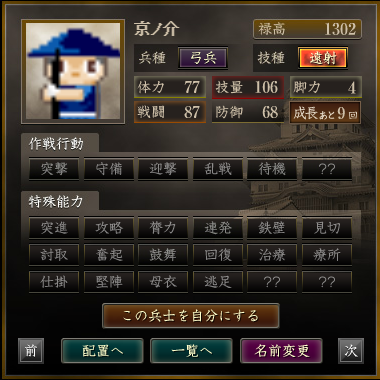
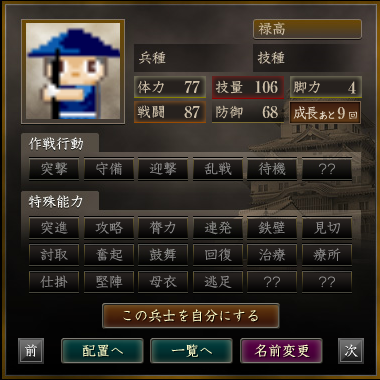
名前・兵種・技種・成長回数が自動で合成されるようにした。

Changed region(s): [[0.7816, 0.0579, 0.9553, 0.2026], [0.4632, 0.1158, 0.6079, 0.2026], [0.3474, 0.0579, 0.4632, 0.1158]]

diff --git a/MyFirstImageComposition/Pages/Index.cshtml.cs b/MyFirstImageComposition/Pages/Index.cshtml.cs
@@ -28,22 +28,64 @@ namespace MyFirstImageComposition.Pages
 
         public void OnGet()
         {
-            string rootPath = _hostEnvironment.WebRootPath;
+            // 兵オブジェクトが持っている情報
+            int nameA = 1;
+            int nameB = 1;
+            string name = "京ノ介";
+            int ch = 1;
+            int ac = 1;
[1 lines of base64/hex data omitted]
+            int mp = 0;
+            int kp = 0;
+            int pw = 0;
+            int df = 0;
+            int s = 4;
 
-            string baseImagePath = Path.Combine(rootPath, @"images\no_title.png");
 
-            using Bitmap newImage = new(baseImagePath);
-            using Graphics g = Graphics.FromImage(newImage);
+            // 元画像
+            string baseImagePath = GetAbsolutePath(@"images\no_title.png");
+            using Bitmap soldierImage = new(baseImagePath);
 
-            string ss = "s1s2s3s4s5s7s8s9s10s11s12s13s14s15s16s17s18s19s20s21s22s33s32s";
+            using (Graphics g = Graphics.FromImage(soldierImage))
+            {
+                // 兵名
+                g.DrawString(name, new Font("MS ゴシック", 11, FontStyle.Bold), Brushes.Moccasin, new Point(133, 21));
 
+                // 兵種
+                string chImagePath = GetAbsolutePath($@"images\characters\ch{ch}.png");
+                using Bitmap chImage = new(chImagePath);
+                g.DrawImage(chImage, 178, 45);
+
+                // 技種
+                string acImagePath = GetAbsolutePath($@"images\actions\ac{ac}.png");
+                using Bitmap acImage = new(acImagePath);
+                g.DrawImage(acImage, 297, 45);
+
+                // 作戦・特殊能力
+                DrawSpecialSkills(g, ss);
+            }
+
+            // 文字列に変換
+            TestImage = ImageToString(soldierImage);
+        }
+
+        private string GetAbsolutePath(string path)
+        {
+            return Path.Combine(_hostEnvironment.WebRootPath, path);
+        }
+
+        // 作戦・特殊能力・向き・作戦を合成
+        private void DrawSpecialSkills(Graphics g, string ss)
+        {
+            // 作戦・特殊能力
             for (int i = 1; i <= 34; i++)
             {
+                // 未割り当て
                 if (i is 6 or 23 or 24 or 30)
                 {
                     continue;
                 }
-
+                // 向き
                 if (i is >= 25 and <= 29)
                 {
                     continue;
@@ -51,13 +93,23 @@ namespace MyFirstImageComposition.Pages
 
                 if (ss.Contains($"s{i}s"))
                 {
-                    string ssImagePath = Path.Combine(rootPath, $@"images\skills\s{i}s.png");
-                    using Bitmap logoImage = new(ssImagePath);
-                    g.DrawImage(logoImage, CalcSSPoint(i));
+                    string ssImagePath = GetAbsolutePath($@"images\skills\s{i}s.png");
+                    using Bitmap ssImage = new(ssImagePath);
+                    g.DrawImage(ssImage, CalcSpecialSkillPoint(i));
                 }
             }
 
-            TestImage = ImageToString(newImage);
+            // 成長
+            for (int i = 90; i <= 99; i++)
+            {
+                if (ss.Contains($"s{i}s"))
+                {
+                    string ssImagePath = GetAbsolutePath($@"images\skills\s{i}s.png");
+                    using Bitmap ssImage = new(ssImagePath);
+                    g.DrawImage(ssImage, 289, 101);
+                    break;
+                }
+            }
         }
 
         private readonly Dictionary<int, (int, int)> Coordinates = new()
@@ -82,7 +134,7 @@ namespace MyFirstImageComposition.Pages
             { 22, (192, 269) },
         };
 
-        public Point CalcSSPoint(int a)
+        public Point CalcSpecialSkillPoint(int a)
         {
 
             if (a is 6 or 23 or 24 or 30)
@@ -96,7 +148,7 @@ namespace MyFirstImageComposition.Pages
 
             int[] gaps = { 0, 5, 9, 14, 18, 23 };
 
-            int width = leftWidth;
+            int width = 0;
             int height = ssHeight;
 
             // 作戦行動
@@ -104,21 +156,21 @@ namespace MyFirstImageComposition.Pages
             {
                 int gap = gaps[a - 1];
 
-                width += ssWidth * (a - 1) + gap;
+                width = leftWidth + ssWidth * (a - 1) + gap;
             }
             // 特殊能力
             else if (a is > 6 and < 23)
             {
-                Coordinates.TryGetValue(a, out (int x, int y) z);
-                width = z.x;
-                height = z.y;
+                Coordinates.TryGetValue(a, out (int x, int y) coord);
+                width = coord.x;
+                height = coord.y;
             }
             // 特殊能力(赤)
             else if (a is 31 or 33 or 34)
             {
                 int gap = gaps[4];
 
-                width += ssWidth * 4 + gap;
+                width = leftWidth + ssWidth * 4 + gap;
                 height = 269;
             }
             else if (a is 32)
